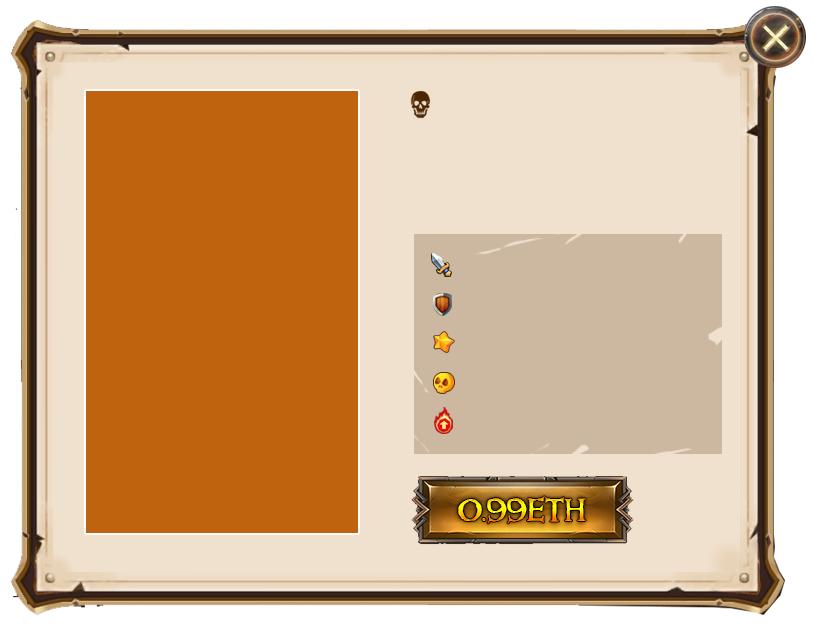
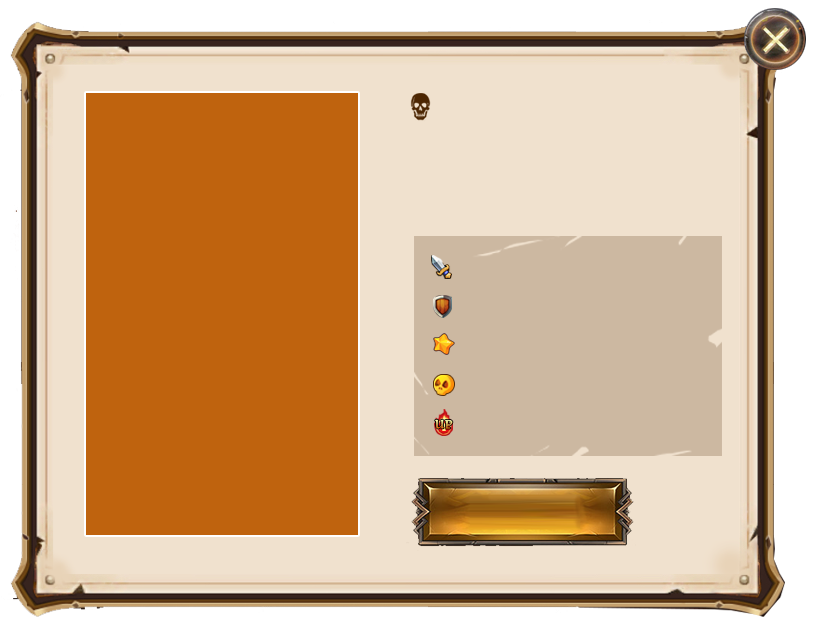
修改字体

diff --git a/pirate-pro/src/util/service.js b/pirate-pro/src/util/service.js
@@ -29,13 +29,13 @@ service.init = function(){
 				// console.log(i);
 				if(!error){
 					console.log(result);
-					store.state.captain[0].color = result[0].c[0];
-					store.state.captain[0].attack = result[1].c[0];
-					store.state.captain[0].strength = result[2].c[0];
-					store.state.captain[0].defense = result[3].c[0];
-					store.state.captain[0].price = web3.fromWei(result[4].c[0]*Math.pow(10,result[4].e),"ether");
-					store.state.captain[0].unitSellable = result[5].c;
-					store.state.captain[0].totalcount = result[6].c[0];
+					store.state.captain[0].color = result[0].toString();
+					store.state.captain[0].attack = result[1].toString();
+					store.state.captain[0].strength = result[2].toString();
+					store.state.captain[0].defense = result[3].toString();
+					store.state.captain[0].price = web3.fromWei(parseFloat(result[4]),"ether");
+					store.state.captain[0].unitSellable = result[5].toString();
+					store.state.captain[0].totalcount = result[6].toString();
 					console.log("价格",store.state.captain[0].price);
 				}else{
 					console.log(error);
@@ -48,13 +48,13 @@ service.init = function(){
 	CaptainGameConfigInstance.getCardInfo(2,function(error,result){
 		if(!error){
 			console.log(result);
-			store.state.captain[1].color = result[0].c[0];
-			store.state.captain[1].attack = result[1].c[0];
-			store.state.captain[1].strength = result[2].c[0];
-			store.state.captain[1].defense = result[3].c[0];
-			store.state.captain[1].price = result[4].c[0];
-			store.state.captain[1].unitSellable = result[5].c;
-			store.state.captain[1].totalcount = result[6].c[0];
+			store.state.captain[1].color = result[0].toString();
+			store.state.captain[1].attack = result[1].toString();
+			store.state.captain[1].strength = result[2].toString();
+			store.state.captain[1].defense = result[3].toString();
+			store.state.captain[1].price = web3.fromWei(parseFloat(result[4]),"ether");
+			store.state.captain[1].unitSellable = result[5].toString();
+			store.state.captain[1].totalcount = result[6].toString();
 		}else{
 			console.log(error);
 		}
@@ -62,15 +62,25 @@ service.init = function(){
 	CaptainGameConfigInstance.getCardInfo(3,function(error,result){
 		if(!error){
 			console.log(result);
-			store.state.captain[2].color = result[0].c[0];
-			store.state.captain[2].attack = result[1].c[0];
-			store.state.captain[2].strength = result[2].c[0];
-			store.state.captain[2].defense = result[3].c[0];
-			store.state.captain[2].price = result[4].c[0];
-			store.state.captain[2].unitSellable = result[5].c;
-			store.state.captain[2].totalcount = result[6].c[0];
+			store.state.captain[2].color = result[0].toString();
+			store.state.captain[2].attack = result[1].toString();
+			store.state.captain[2].strength = result[2].toString();
+			store.state.captain[2].defense = result[3].toString();
+			store.state.captain[2].price = web3.fromWei(parseFloat(result[4]),"ether");
+			store.state.captain[2].unitSellable = result[5].toString();
+			store.state.captain[2].totalcount = result[6].toString();
 		}else{
 			console.log(error);
+		}
+	})
+
+	//获取当前区块GAS价格
+	web3.eth.getGasPrice(function(error,result){
+		if(!error){
+			console.log(result);
+			console.log("当前GAS价格是：",web3.fromWei(parseFloat(result),'microether')+"microether");
+		}else{
+			console.log(error)
 		}
 	})
 		
@@ -118,7 +128,12 @@ service.login = function(){
 }
 
 service.buycard = function(i){
-	
+	if(store.state.username.indexOf("login")>-1){
+		alert("请先登录metamask和海盗官网");
+	}else{
+		//购买卡牌
+		
+	}
 }
 
 service.myassets = function(){
@@ -136,7 +151,7 @@ service.setnickname = function(nameObj){
 		}).catch(function(error){
 			console.log(error);
 		})
-		store.state.username = "login";
+		store.state.username = "Login";
 		var invite_uid = Math.round(Math.random()*10).toString() + Math.round(Math.random()*10).toString() + Math.round(Math.random()*10).toString() + Math.round(Math.random()*10).toString() + Math.round(Math.random()*10).toString();
 		document.cookie = "invite_uid="+invite_uid;
 	}

diff --git a/pirate-pro/src/components/template/common/BigPopup.vue b/pirate-pro/src/components/template/common/BigPopup.vue
@@ -7,13 +7,13 @@
 		  	<div class="name"><p class="colorb">{{bigpopupBuymsg.buycard?$store.state.captain[bigpopupBuymsg.player - 1].name:""}}</p></div>
 		  	<div class="moredetail colorb">{{bigpopupBuymsg.buycard?$store.state.captain[bigpopupBuymsg.player - 1].detail:""}}</div>
 		  	<div class="ability">
-		  		<div class="row"><div class="col-80"></div><div class="col-20">{{bigpopupBuymsg.buycard?$store.state.captain[bigpopupBuymsg.player - 1].color:""}}</div></div>
-		  		<div class="row"><div class="col-80"></div><div class="col-20">{{bigpopupBuymsg.buycard?$store.state.captain[bigpopupBuymsg.player - 1].attack:""}}</div></div>
-		  		<div class="row"><div class="col-80"></div><div class="col-20">{{bigpopupBuymsg.buycard?$store.state.captain[bigpopupBuymsg.player - 1].strength:""}}</div></div>
-		  		<div class="row"><div class="col-80"></div><div class="col-20">{{bigpopupBuymsg.buycard?$store.state.captain[bigpopupBuymsg.player - 1].defense:""}}</div></div>
-		  		<div class="row"><div class="col-80"></div><div class="col-20">{{bigpopupBuymsg.buycard?$store.state.captain[bigpopupBuymsg.player - 1].price:""}}</div></div>
+		  		<div class="row"><div class="col-80"></div><div class="col-20"><p>{{bigpopupBuymsg.buycard?$store.state.captain[bigpopupBuymsg.player - 1].color:""}}</p></div></div>
+		  		<div class="row"><div class="col-80"></div><div class="col-20"><p>{{bigpopupBuymsg.buycard?$store.state.captain[bigpopupBuymsg.player - 1].attack:""}}</p></div></div>
+		  		<div class="row"><div class="col-80"></div><div class="col-20"><p>{{bigpopupBuymsg.buycard?$store.state.captain[bigpopupBuymsg.player - 1].strength:""}}</p></div></div>
+		  		<div class="row"><div class="col-80"></div><div class="col-20"></div></div>
+		  		<div class="row"><div class="col-80"></div><div class="col-20"><p>{{bigpopupBuymsg.buycard?$store.state.captain[bigpopupBuymsg.player - 1].defense:""}}</p></div></div>
 		  	</div>
-		  	<div class="btn" @click="buycard"></div>
+		  	<div class="btn" @click="buycard"><div>{{bigpopupBuymsg.buycard?$store.state.captain[bigpopupBuymsg.player - 1].price:""}}ETH</div></div>
 		</div>
   	</div>
 	<div v-show="bigpopupBuymsg.confirmbuycard" class="confirmbuycard">
@@ -192,6 +192,13 @@ export default {
 	.ability>.row>.col-20{
 		width: 24.1%;
 		position: relative;
+		display: table;
+	}
+	.ability>.row>.col-20>p{
+		text-align: center;
+		width: 100%;
+		display: table-cell;
+		vertical-align: middle;
 	}
 	.ability>.row:nth-child(1)>.col-80{
 		background: url("/static/image/ability1.png") left top no-repeat;
@@ -226,7 +233,8 @@ export default {
 		background-size: auto 81%;
 	}
 	.ability>.row:nth-child(5)>.col-20{
-		left: -12%;
+		left: -13%;
+		top: -12%;
 	}
 	.btn{
 		width: 60.3%;
@@ -234,6 +242,14 @@ export default {
 		position: absolute;
 		top: 80.8%;
 		left: 14.1%;
+		font-size: 24px;
+	    color: rgb(254,238,0);
+	    text-align: center;
+	    display: table;
+	}
+	.btn>div{
+		display: table-cell;
+		vertical-align: middle;
 	}
 	/*确认购买卡牌弹窗样式*/
 	.confirmbuycard{

diff --git a/pirate-pro/src/components/template/Presale.vue b/pirate-pro/src/components/template/Presale.vue
@@ -5,7 +5,7 @@
         <div class="topright">
           <div class="row">
             <div class="col-40" @click="login"><p class="text-left">{{username.username}}</p></div>
-            <div class="col-60"><p class="text-right" @click="myassets">My assets</p></div>
+            <div class="col-60"><p class="text-right" @click="myassets">My Assets</p></div>
           </div>
         </div>
         <div class="pretitle" :style="{'height':titleheight}"></div>
@@ -55,7 +55,7 @@ export default {
       this.buymsg = {confirmbuycard:true,player:i};
     },
     login: function () {
-      if(this.$store.state.username.indexOf("login") > -1){
+      if(this.$store.state.username.indexOf("Login") > -1){
         this.service.login();
       }else{
         this.$store.dispatch("showbigpopup");
@@ -74,7 +74,7 @@ export default {
     }
   },
   created:function(){
-    console.log("高度",this.playersheight);
+    console.log("预售栏目的高度是：",this.playersheight);
   },
   mounted:function(){
     if(document.documentElement.clientWidth > 1680){
@@ -198,7 +198,7 @@ export default {
   width: 81.4%;
   min-width: 126px;
   height:100%;
-  padding: 0 9%;
+  padding: 0 7%;
   box-sizing: border-box;
 }
 .topright>div>div:hover{

diff --git a/pirate-pro/src/components/template/HeaderBanner.vue b/pirate-pro/src/components/template/HeaderBanner.vue
@@ -3,7 +3,7 @@
     <div class="topright">
       <div class="row">
         <div class="col-40" @click="login"><p class="text-left">{{username.username}}</p></div>
-        <div class="col-60"><p class="text-right"  @click="myassets">My assets</p></div>
+        <div class="col-60"><p class="text-right"  @click="myassets">My Assets</p></div>
       </div>
     </div>
     <div class="language"  @click="changeLocale()">{{$t("message.changeLocale")}}</div>
@@ -44,7 +44,7 @@ export default {
       console.log(this.$i18n.locale,this.$store.state.locale);
     },
     login: function () {
-      if(this.$store.state.username.indexOf("login") > -1){
+      if(this.$store.state.username.indexOf("Login") > -1){
         this.service.login();
       }else{
         this.$store.dispatch("showbigpopup");
@@ -146,7 +146,7 @@ export default {
     width: 81.4%;
     min-width: 126px;
     height:100%;
-    padding: 0 9%;
+    padding: 0 7%;
     box-sizing: border-box;
   }
   .topright>div>div:hover{

diff --git a/pirate-pro/src/components/css/init.css b/pirate-pro/src/components/css/init.css
@@ -155,6 +155,8 @@ template {
 
 /*global css*/
 #app {
+  font-family: Windlass,Georgia,"serif";
+  font-variant: small-caps;
   -webkit-font-smoothing: antialiased;
   -moz-osx-font-smoothing: grayscale;
   background:#000; /*不支持背景色渐变的情况*/

diff --git a/pirate-pro/src/store/rootState.js b/pirate-pro/src/store/rootState.js
@@ -6,7 +6,7 @@ const state = {
 	// 全局变量
 	show: false,
 	locale: "zh-ch",
-	username: "login",
+	username: "Login",
 	showheader: true,
 	showfooter: true,
 	showbigpopup: false,
